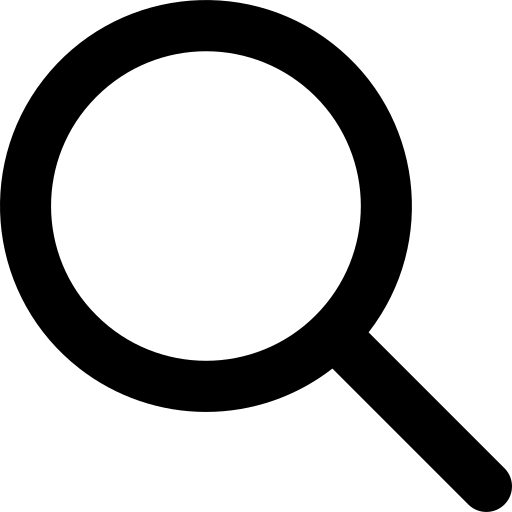
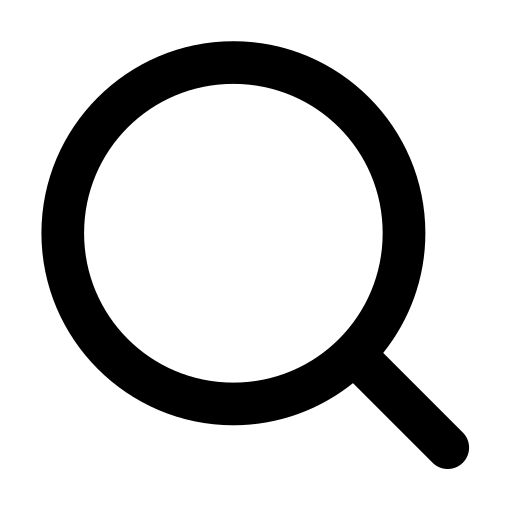
feat: add Newsletter and Testimonials components, update Home page layout

diff --git a/src/components/NewsLetter.jsx b/src/components/NewsLetter.jsx
@@ -1,0 +1,92 @@
+import { useState } from 'react'
+
+const NewsLetter = () => {
+  const [email, setEmail] = useState('')
+  const [subscribed, setSubscribed] = useState(false)
+  const [error, setError] = useState('')
+
+  const handleSubmit = (e) => {
+    e.preventDefault()
+
+    const isValidEmail = /^[^\s@]+@[^\s@]+\.[^\s@]+$/.test(email)
+
+    if (!isValidEmail) {
+      setError('Please enter a valid email address')
+      setSubscribed(false)
+      return
+    }
+
+    setError('')
+    setSubscribed(true)
+    setEmail('')
+
+    // hide the success message after a few seconds
+    setTimeout(() => setSubscribed(false), 4000)
+  }
+
+  return (
+    <div className="px-6 md:px-16 lg:px-24 xl:px-32 py-20">
+      <div
+        className="relative overflow-hidden rounded-3xl bg-gradient-to-br
+        from-gray-900 via-gray-800 to-black px-6 sm:px-12 md:px-20 py-14 md:py-20
+        flex flex-col items-center text-center"
+      >
+        {/* decorative glow blobs */}
+        <div className="absolute -top-24 -left-24 w-72 h-72 bg-orange-500/20 rounded-full blur-3xl" />
+        <div className="absolute -bottom-24 -right-24 w-72 h-72 bg-blue-500/20 rounded-full blur-3xl" />
+
+        <span className="relative z-10 text-xs sm:text-sm uppercase tracking-widest text-orange-400 font-semibold">
+          Stay in the loop
+        </span>
+
+        <h2 className="relative z-10 mt-3 text-3xl md:text-4xl font-bold text-white max-w-xl">
+          Get exclusive hotel deals in your inbox
+        </h2>
+
+        <p className="relative z-10 mt-4 text-gray-300 text-sm md:text-base max-w-md">
+          Subscribe to our newsletter and be the first to know about new offers,
+          seasonal discounts and the best stays across Pakistan.
+        </p>
+
+        <form
+          onSubmit={handleSubmit}
+          noValidate
+          className="relative z-10 mt-8 w-full max-w-md flex flex-col sm:flex-row gap-3"
+        >
+          <input
+            type="email"
+            value={email}
+            onChange={(e) => setEmail(e.target.value)}
+            placeholder="Enter your email address"
+            className="flex-1 px-5 py-3 rounded-full bg-white/10 border border-white/20
+            text-white placeholder-gray-400 outline-none focus:border-orange-400
+            focus:bg-white/15 transition-all duration-300"
+          />
+          <button
+            type="submit"
+            className="px-6 py-3 rounded-full bg-orange-500 hover:bg-orange-600
+            text-white font-medium whitespace-nowrap transition-all duration-300
+            cursor-pointer active:scale-95"
+          >
+            Subscribe
+          </button>
+        </form>
+
+        <div className="relative z-10 mt-3 min-h-[1.25rem]">
+          {error && <p className="text-red-400 text-sm">{error}</p>}
+          {subscribed && (
+            <p className="text-green-400 text-sm">
+              🎉 Thanks for subscribing! Check your inbox soon.
+            </p>
+          )}
+        </div>
+
+        <p className="relative z-10 mt-6 text-xs text-gray-500">
+          No spam, ever. Unsubscribe anytime.
+        </p>
+      </div>
+    </div>
+  )
+}
+
+export default NewsLetter

diff --git a/src/components/Testimonials.jsx b/src/components/Testimonials.jsx
@@ -1,0 +1,65 @@
+import Title from './Title'
+import { testimonials } from '../data/testimonials'
+
+const StarRating = ({ rating }) => {
+  return (
+    <div className="flex items-center gap-0.5">
+      {Array(5)
+        .fill(0)
+        .map((_, i) => (
+          <svg
+            key={i}
+            xmlns="http://www.w3.org/2000/svg"
+            viewBox="0 0 24 24"
+            fill={i < rating ? '#facc15' : '#e5e7eb'}
+            className="w-4 h-4"
+          >
+            <path d="M12 .587l3.668 7.431 8.2 1.192-5.934 5.782 1.401 8.168L12 19.771l-7.335 3.389 1.401-8.168L.132 9.21l8.2-1.192z" />
+          </svg>
+        ))}
+    </div>
+  )
+}
+
+const Testimonials = () => {
+  return (
+    <div className="flex flex-col items-center px-6 md:px-16 lg:px-24 xl:px-32 pt-20 pb-30">
+      <Title
+        align="center"
+        Title="What Our Guests Say"
+        SubTitle="Real experiences from travelers who booked their stay with us across Pakistan"
+      />
+
+      <div className="grid grid-cols-1 md:grid-cols-2 lg:grid-cols-3 gap-6 mt-12 w-full">
+        {testimonials.map((item) => (
+          <div
+            key={item.id}
+            className="flex flex-col gap-3 bg-white rounded-xl shadow-md hover:shadow-lg
+            transition-all p-6"
+          >
+            <div className="flex items-center gap-3">
+              <img
+                src={item.avatar}
+                alt={item.name}
+                className="w-12 h-12 rounded-full object-cover"
+              />
+              <div>
+                <p className="font-semibold text-gray-800">{item.name}</p>
+                <p className="text-sm text-gray-500">{item.city}</p>
+              </div>
+            </div>
+
+            <StarRating rating={item.rating} />
+
+            <p className="text-gray-600 text-sm leading-relaxed line-clamp-4">
+              {item.review}
+            </p>
+          </div>
+        ))}
+      </div>
+    </div>
+  )
+}
+
+export default Testimonials
+  

diff --git a/src/data/testimonials.js b/src/data/testimonials.js
@@ -1,0 +1,56 @@
+export const testimonials = [
+  {
+    id: 1,
+    name: "Ahmed Khan",
+    city: "Lahore",
+    avatar: "https://i.pravatar.cc/150?u=testimonial1",
+    rating: 5,
+    review:
+      "Booking my stay in Islamabad was so smooth. The whole process took less than five minutes and the hotel matched exactly what was shown.",
+  },
+  {
+    id: 2,
+    name: "Ayesha Malik",
+    city: "Karachi",
+    avatar: "https://i.pravatar.cc/150?u=testimonial2",
+    rating: 5,
+    review:
+      "Great prices and even better service. I found a deal for Murree that I couldn't find anywhere else. Will definitely book again.",
+  },
+  {
+    id: 3,
+    name: "Usman Ali",
+    city: "Islamabad",
+    avatar: "https://i.pravatar.cc/150?u=testimonial3",
+    rating: 4,
+    review:
+      "Customer support helped me change my check-in date within minutes. Really impressed with how responsive the team was.",
+  },
+  {
+    id: 4,
+    name: "Hina Shah",
+    city: "Sukkur",
+    avatar: "https://i.pravatar.cc/150?u=testimonial4",
+    rating: 5,
+    review:
+      "The exclusive offers section saved me a good amount on my family trip to Skardu. Everything was exactly as described.",
+  },
+  {
+    id: 5,
+    name: "Bilal Ahmed",
+    city: "Hyderabad",
+    avatar: "https://i.pravatar.cc/150?u=testimonial5",
+    rating: 5,
+    review:
+      "Clean interface, fast bookings, and no hidden charges. This is now my go-to app whenever I travel within Pakistan.",
+  },
+  {
+    id: 6,
+    name: "Maryam Noor",
+    city: "Quetta",
+    avatar: "https://i.pravatar.cc/150?u=testimonial6",
+    rating: 4,
+    review:
+      "Loved the variety of hotels available, from budget rooms to luxury resorts. Made planning our Gwadar trip really easy.",
+  },
+];

diff --git a/src/components/Navbar.jsx b/src/components/Navbar.jsx
@@ -6,6 +6,7 @@ import menuicon from '../assets/menuicon.png';
 import close from '../assets/close.png';
 import { useClerk, useUser, UserButton } from '@clerk/react';
 
+
 const BookingIcon = () => (
   <svg
     xmlns="http://www.w3.org/2000/svg"
@@ -33,7 +34,7 @@ const Navbar = () => {
 
   const [isScrolled, setIsScrolled] = useState(false);
   const [isMenuOpen, setIsMenuOpen] = useState(false);
-
+   
   const { openSignIn } = useClerk();
   const { user } = useUser();
   const navigate = useNavigate();

diff --git a/src/pages/Home.jsx b/src/pages/Home.jsx
@@ -1,7 +1,8 @@
 import  Hero  from '../components/Hero'
 import FeatureDestinations from '../components/FeatureDestinations';
 import ExclusiveOffers from '../components/ExclusiveOffers';
-
+import Testimonials from "../components/Testimonials";
+import NewsLetter from '../components/NewsLetter';
 
 
 const Home = () => {
@@ -10,6 +11,8 @@ const Home = () => {
     <Hero />
     <FeatureDestinations />
     <ExclusiveOffers />
+    <Testimonials />
+    <NewsLetter />
     </>
   )
 }

diff --git a/src/components/Hero.jsx b/src/components/Hero.jsx
@@ -1,8 +1,8 @@
-import React from 'react'
+
 import hotel from '../assets/hotel.png'
 import clender from '../assets/clender.png'
 import search from '../assets/search.png'
-import cities from '../data/cities.jsx'
+import cities from '../data/cities.js'
 
 
 const Hero = () => {

diff --git a/src/components/Title.jsx b/src/components/Title.jsx
@@ -1,6 +1,7 @@
-import React from 'react'
+
 
 const Title = ({Title ,SubTitle ,align , font = "font-playfair"}) => {
+
   return (
     <div className={`flex flex-col justify-center items-center text-center text-${align === "left"
     && "md:items-start md:text-left"}`}>
